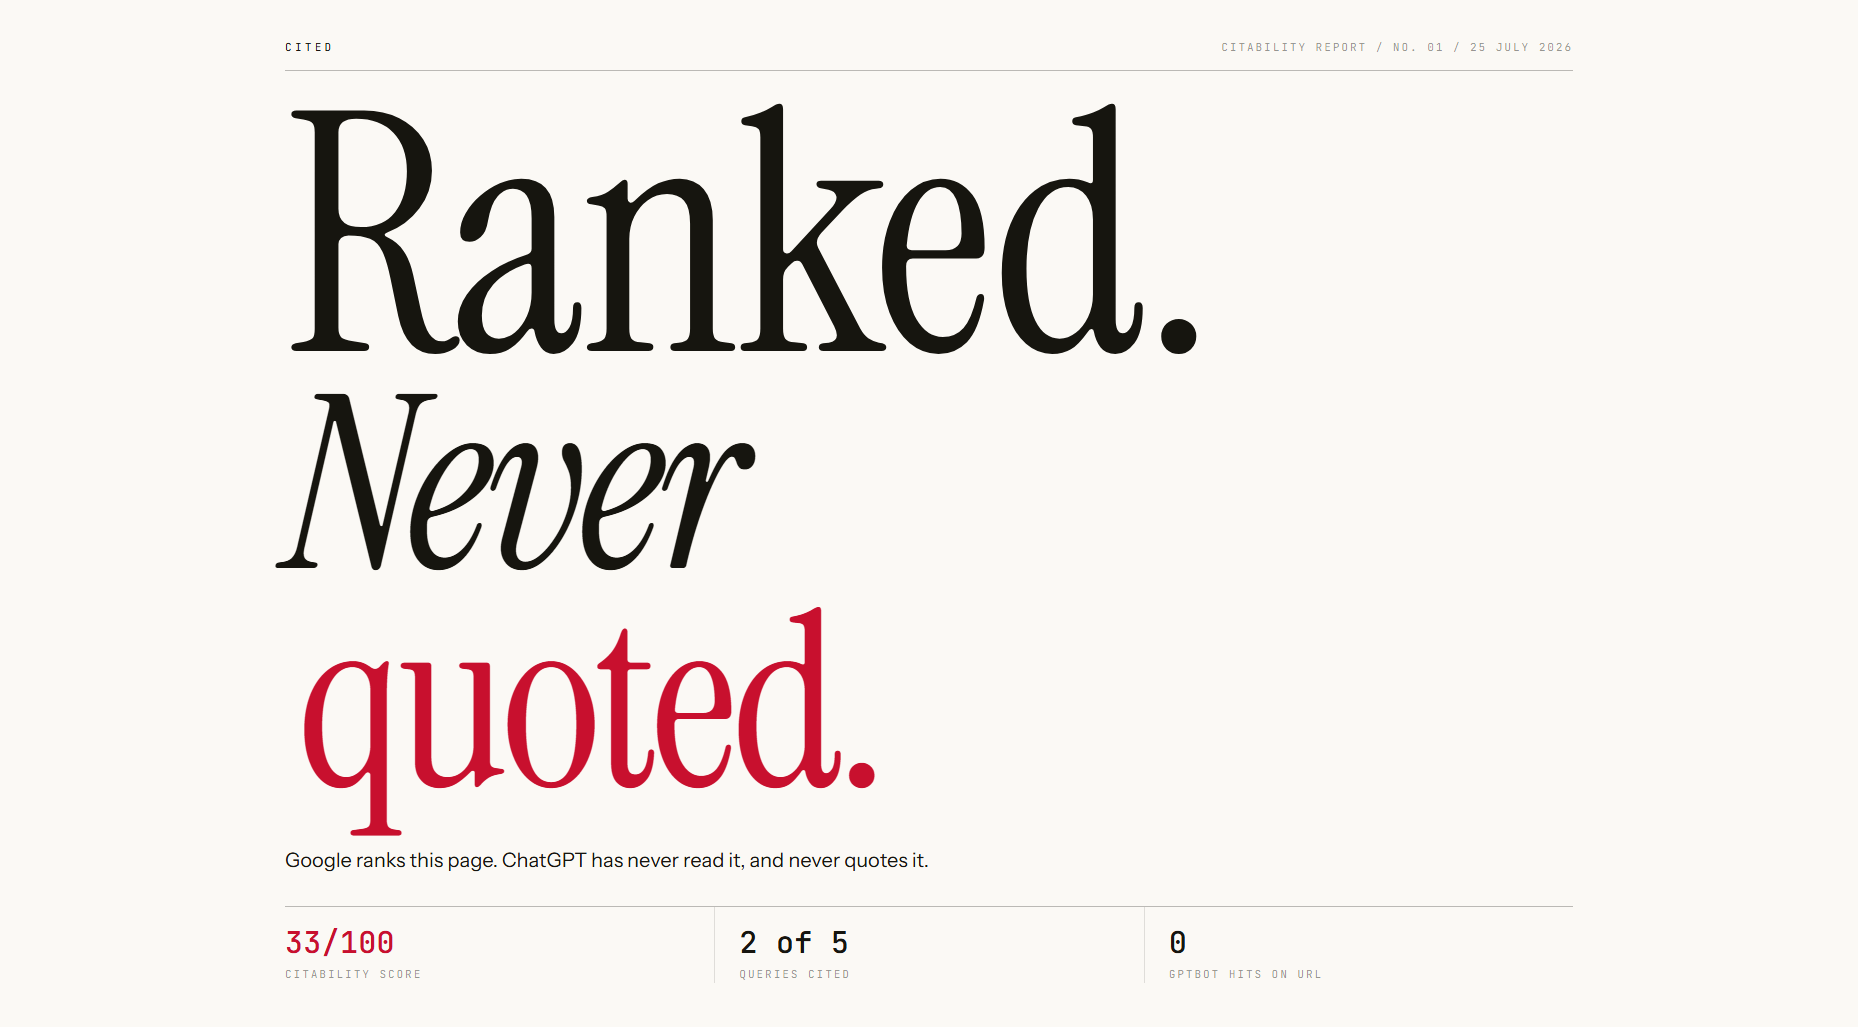
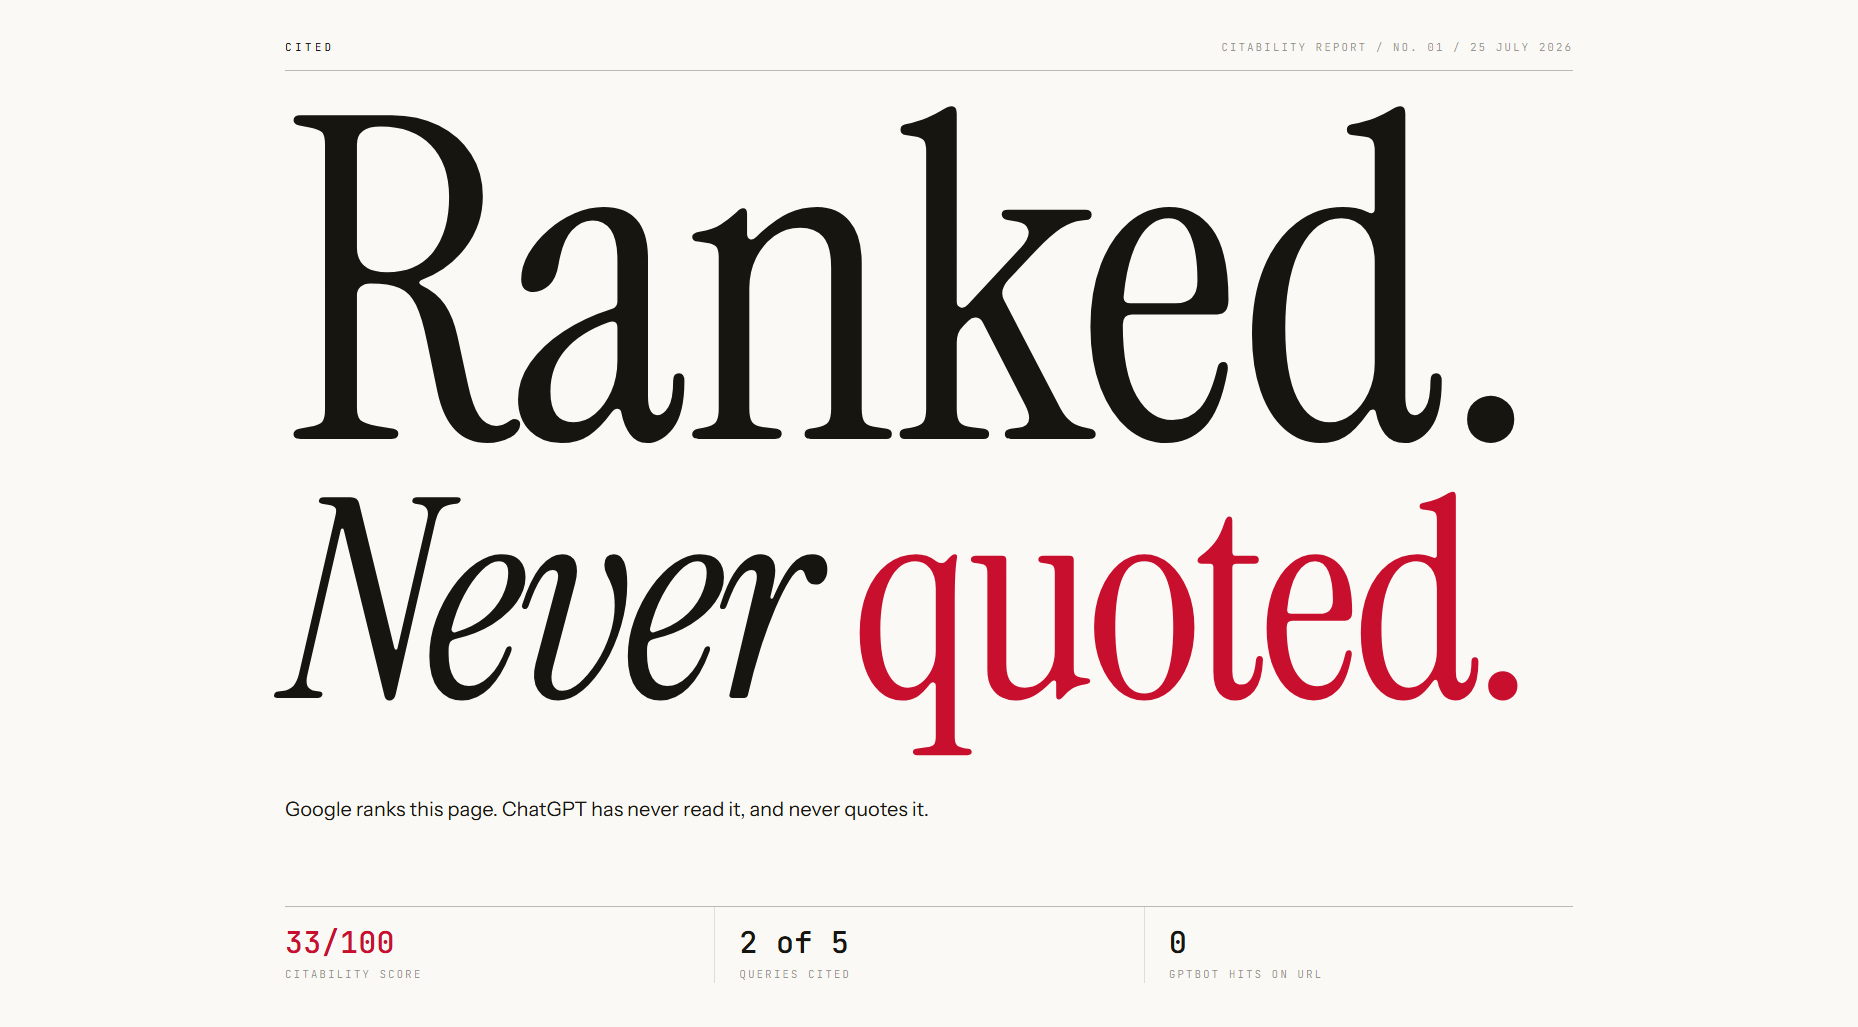
design: variant E final headline (Ranked. 450px / Never quoted. one line), shot refreshed

Changed region(s): [[0.1561, 0.0935, 0.8428, 0.8413]]

diff --git a/design/mockups/variant-e-editorial.html b/design/mockups/variant-e-editorial.html
@@ -34,7 +34,7 @@
   --mono:   "JetBrains Mono", ui-monospace, monospace;
 
   /* scale — cover lines are sized so each one fills the 1288px measure */
-  --display-cover-1: clamp(300px, 25.6vw, 476px);
+  --display-cover-1: clamp(300px, 24.2vw, 450px);
   --display-cover-2: clamp(200px, 15.0vw, 279px);
   --display-score: clamp(400px, 25vw, 462px);
   --display-delta: clamp(260px, 17vw, 316px);
@@ -135,7 +135,10 @@ body {
   margin-top: clamp(16px, 2.6vh, 34px);
 }
 
-.cover__display > span { display: block; white-space: nowrap; }
+/* Lines are sized to sit on one line in Instrument Serif. They are allowed to
+   wrap rather than nowrap, so a webfont failure degrades to an extra line
+   instead of overflowing the viewport. */
+.cover__display > span { display: block; }
 .cover__display em { font-style: italic; }
 
 .cover__display .l1 {
@@ -147,6 +150,7 @@ body {
   font-size: var(--display-cover-2);
   line-height: 0.92;
   letter-spacing: -0.024em;
+  padding-bottom: 0.11em;   /* clearance for the descender of "q" */
 }
 /* the accent word must stay at display scale, never inherit a body size */
 .cover__display .red { font-size: inherit; }
@@ -430,7 +434,7 @@ body {
   margin-left: auto;
   align-self: flex-end;
   text-align: right;
-  color: var(--ink-meta);
+  color: var(--ink);
   max-width: 300px;
   line-height: 1.9;
 }
@@ -680,7 +684,7 @@ body {
       <path d="M0 28 H218 M196 10 L218 28 L196 46" stroke-linecap="square"/>
     </svg>
     <span class="delta__num">5</span>
-    <span class="delta__cap mono">Cited before fixes<br>&rarr; cited after fixes</span>
+    <span class="delta__cap mono">Cited before fixes<br>&rarr;&nbsp; cited after fixes</span>
   </div>
 
   <div class="queries">
